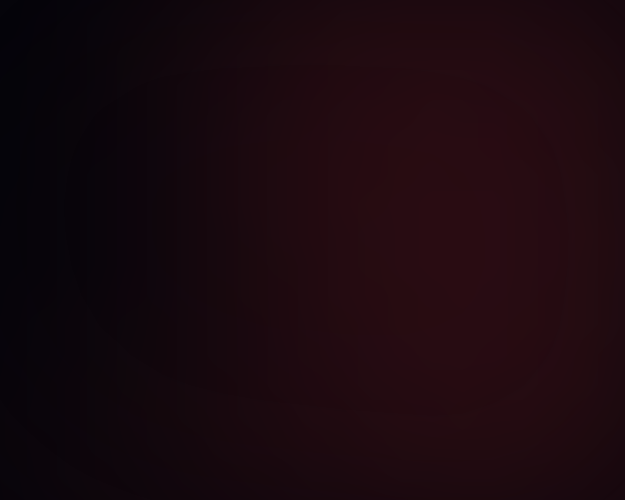
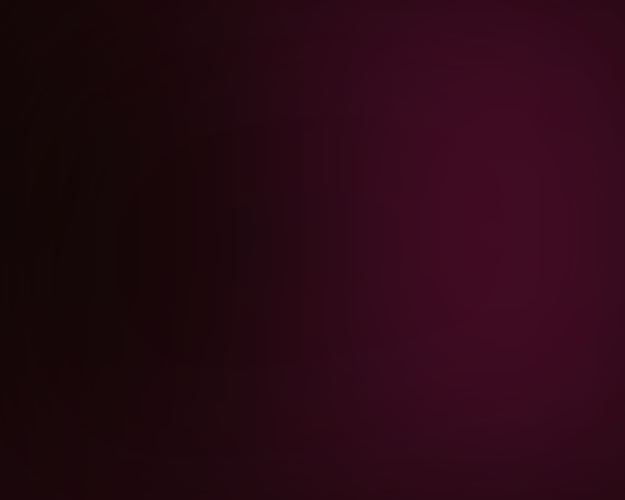
Added animation on the footer

Changed region(s): [[0.7904, 0.12, 1.0, 0.69], [0.8512, 0.03, 0.8816, 0.06], [0.8208, 0.06, 0.8512, 0.09]]

diff --git a/assets/style/portfolio.css b/assets/style/portfolio.css
@@ -223,6 +223,7 @@ p#greeting{
 
 
 .headfoot{
+    z-index: 20;
     width: 100%;
     max-width: 100vw;
     aspect-ratio: 5 / 1;
@@ -230,29 +231,41 @@ p#greeting{
     background-image: var(--img1);
     background-size: auto 105%;
     background-repeat: no-repeat;
-    transform: translateY(-75%);
-    transition: transform 1s ease;
-    animation: wavefade 16s infinite 1s;
+    animation: wavefade 16s infinite;
+    transition: transform liner;
 }
 
 @keyframes wavefade {
     0%{
         background-image: var(--img1);
-
+        transform: translateY(-75%);
+    }
+    20%{
+        transform: translateY(-80%);
     }
     33%{
-        background-image: var(--img2); 
+        background-image: var(--img2);
+        transform: translateY(-85%);
+    }
+    50%{
+        transform: translateY(-80%);
     }
     67%{
-        background-image: var(--img3); 
+        background-image: var(--img3);
+        transform: translateY(-75%);
+    }
+    83%{
+        transform: translateY(-70%);
     }
     100%{
-        background-image: var(--img1);  
+        background-image: var(--img1);
+        transform: translateY(-75%);
     }
 }
 
 
 main{
+    z-index: 30;
     background-color: var(--blackcol);
     height: 100vh;
     transition: background-color .5s;
